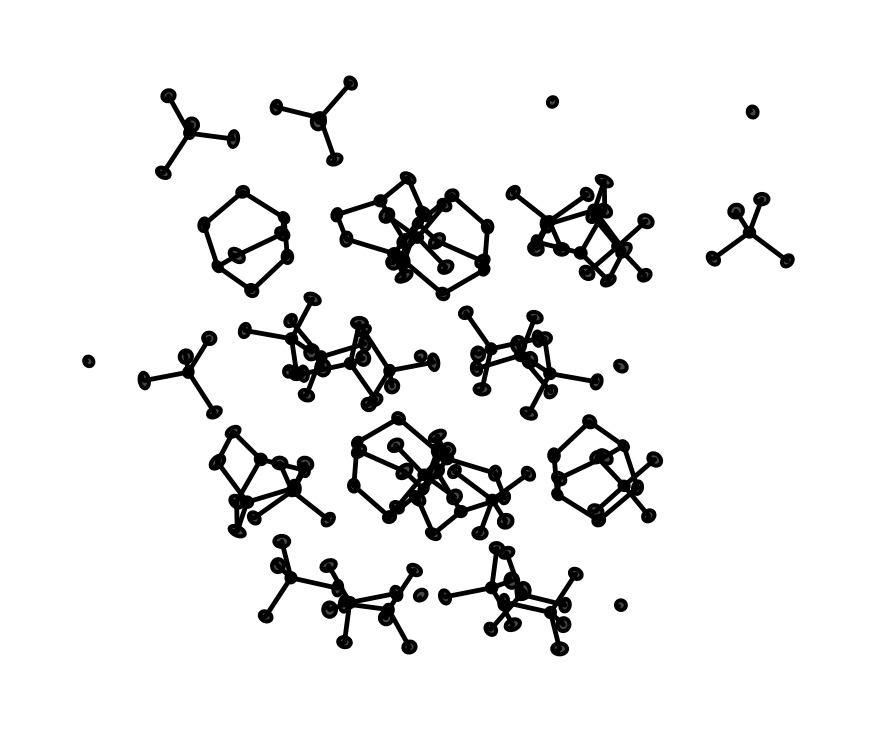
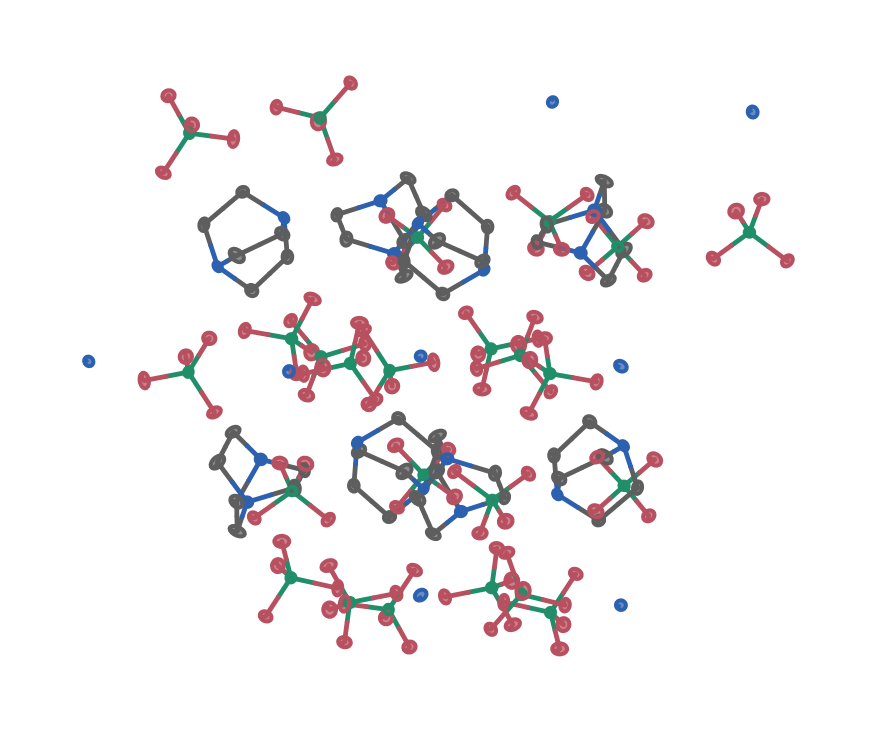
fix: honor element colors in flat ORTEP and remove TUI showcase

diff --git a/crystal_viewer/ortep/flat_render.py b/crystal_viewer/ortep/flat_render.py
@@ -76,6 +76,11 @@ def _depth(atom, view_z):
     return -float(np.dot(atom["cart"], view_z))
 
 
+def _render_atom_color(atom: dict, style: dict) -> str:
+    """Resolve a visible atom's color, including element palette fallbacks."""
+    return str(_atom_color(atom, style) or atom.get("color", "#808080"))
+
+
 # ── Hatching ────────────────────────────────────────────────────────────────
 
 def _hatch_lines_for_ellipse(cx, cy, w, h, angle_deg, n_lines=5):
@@ -216,16 +221,17 @@ def render_ortep_flat(scene: dict, style: dict | None = None) -> plt.Figure:
         start_2d = _project_2d(bond["start"], view_x, view_y)
         end_2d = _project_2d(bond["end"], view_x, view_y)
 
-        bond_color = _atom_color(ai, style)
-        line = Line2D(
-            [start_2d[0], end_2d[0]],
-            [start_2d[1], end_2d[1]],
-            linewidth=bond_lw,
-            color=bond_color,
-            solid_capstyle="round",
-            zorder=1,
-        )
-        ax.add_line(line)
+        midpoint = (start_2d[0] + end_2d[0]) / 2.0
+        midpoint_y = (start_2d[1] + end_2d[1]) / 2.0
+        for x0, y0, x1, y1, atom in (
+            (start_2d[0], start_2d[1], midpoint, midpoint_y, ai),
+            (midpoint, midpoint_y, end_2d[0], end_2d[1], aj),
+        ):
+            ax.add_line(Line2D(
+                [x0, x1], [y0, y1], linewidth=bond_lw,
+                color=_render_atom_color(atom, style),
+                solid_capstyle="round", zorder=1,
+            ))
 
     # ── Layer 2: Atom fills (translucent element colors to clip bonds) ──
     for atom in draw_atoms:
@@ -240,7 +246,7 @@ def render_ortep_flat(scene: dict, style: dict | None = None) -> plt.Figure:
             continue
 
         elem = str(atom.get("elem", "C"))
-        atom_color = _atom_color(atom, style)
+        atom_color = _render_atom_color(atom, style)
         if elem in ("H", "D") and h_radius_override:
             patch = Circle(
                 (cx, cy), radius=float(h_radius_override),
@@ -270,7 +276,7 @@ def render_ortep_flat(scene: dict, style: dict | None = None) -> plt.Figure:
             lc = LineCollection(
                 hatch_segs,
                 linewidths=0.7,
-                colors=_atom_color(atom, style),
+                colors=_render_atom_color(atom, style),
                 zorder=3,
             )
             ax.add_collection(lc)
@@ -287,7 +293,7 @@ def render_ortep_flat(scene: dict, style: dict | None = None) -> plt.Figure:
         linestyle = "--" if is_disordered else "-"
         linewidth = 1.2
 
-        atom_color = _atom_color(atom, style)
+        atom_color = _render_atom_color(atom, style)
         if elem in ("H", "D") and h_radius_override:
             patch = Circle(
                 (cx, cy), radius=float(h_radius_override),
@@ -319,7 +325,7 @@ def render_ortep_flat(scene: dict, style: dict | None = None) -> plt.Figure:
             ax.text(
                 cx + offset_x, cy + offset_y, label,
                 fontsize=7, ha="left", va="bottom",
-                color=_atom_color(atom, style), zorder=5,
+                color=_render_atom_color(atom, style), zorder=5,
             )
 
     # Auto-range with generous margin based on largest ellipse

diff --git a/crystal_viewer/render/style/core.py b/crystal_viewer/render/style/core.py
@@ -53,8 +53,9 @@ def validate_style_schema(style: dict) -> dict:
     normalized["minor_wireframe"] = bool(normalized.get("minor_wireframe", False)) or disorder == "outline_rings"
 
     # Classic 2D ORTEP publication mode: flat + ortep activates the
-    # open-ellipsoid pipeline (white fill + silhouette + octant hatch +
-    # black bond lines + orthographic projection).
+    # open-ellipsoid pipeline (silhouette + octant hatch + orthographic
+    # projection). The active element palette remains effective unless the
+    # caller explicitly requests monochrome.
     if material == "flat" and render_style == "ortep":
         normalized["ortep_silhouette_outline"] = True
         normalized["ortep_octant_hatching"] = True
@@ -63,7 +64,6 @@ def validate_style_schema(style: dict) -> dict:
         normalized["projection"] = "orthographic"
         if not normalized.get("ortep_hydrogen_radius"):
             normalized["ortep_hydrogen_radius"] = 0.15
-        normalized["monochrome"] = True
 
     return normalized
 

diff --git a/crystal_viewer/ortep/core.py b/crystal_viewer/ortep/core.py
@@ -227,7 +227,17 @@ def _atom_color(atom: dict, style: dict) -> str:
     override = atom.get("_render_color")
     if override:
         return str(override)
-    return "#000000" if style.get("monochrome", False) else atom.get("color", "#808080")
+    if style.get("monochrome", False):
+        return "#000000"
+    color = atom.get("color")
+    if color:
+        return str(color)
+    try:
+        from ..config.colors import ELEMENT_COLORS
+
+        return str(ELEMENT_COLORS.get(str(atom.get("elem", "")), "#808080"))
+    except Exception:
+        return "#808080"
 
 
 def _atom_is_minor(atom: dict) -> bool:
